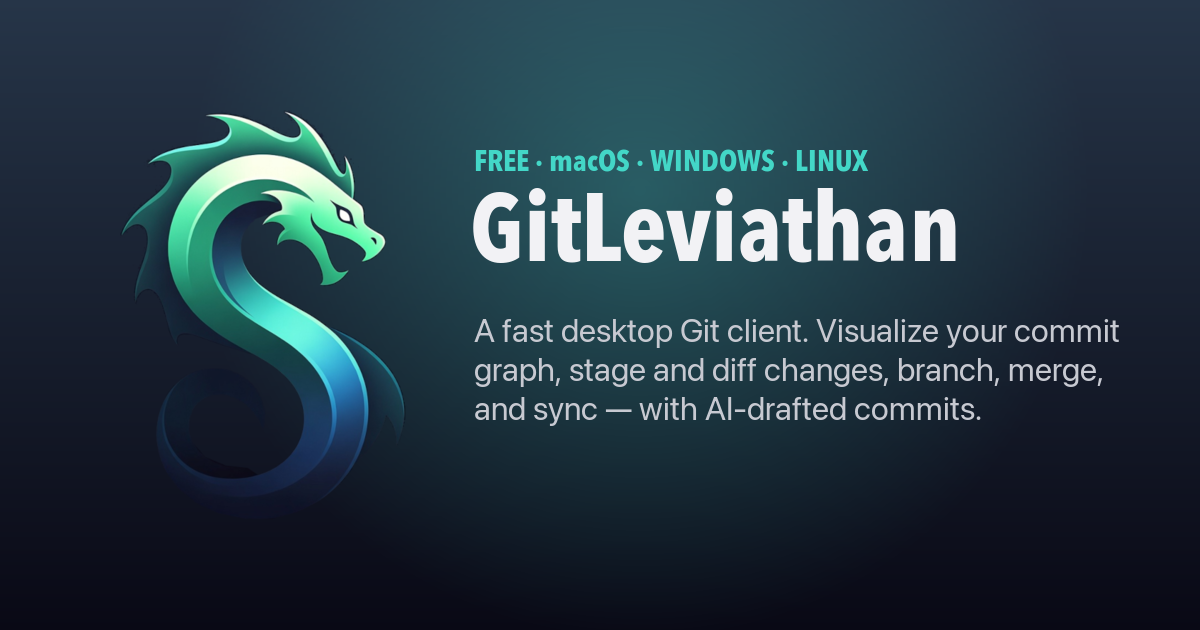
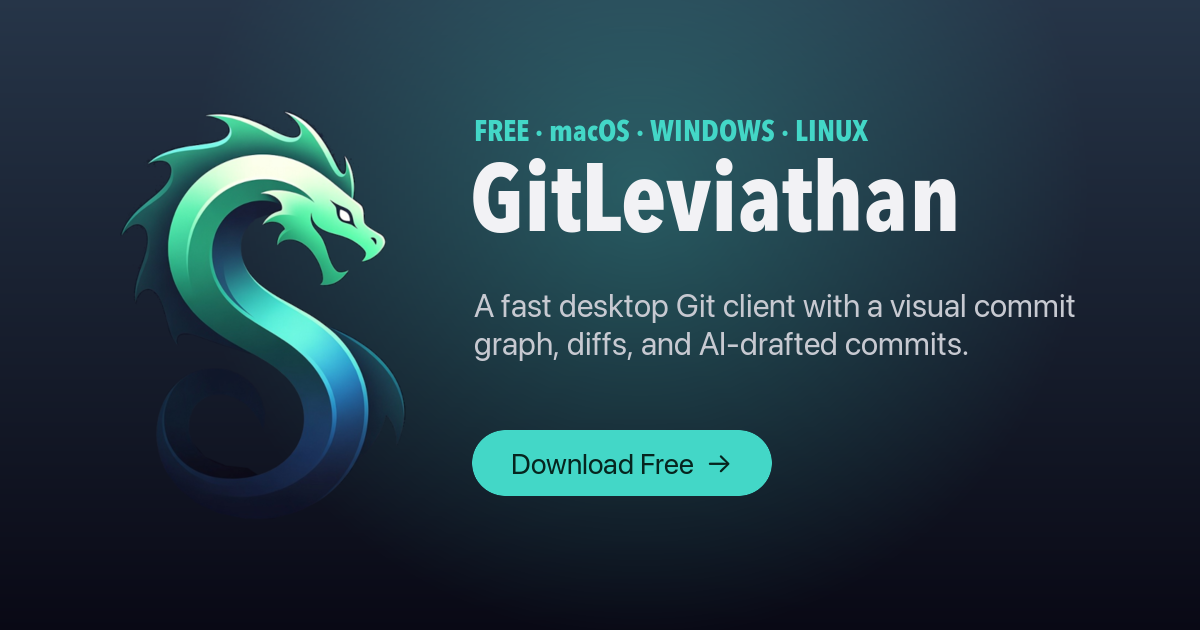
feat: tighten meta titles and descriptions for SEO
Shorten the page title and OG/Twitter/schema descriptions, use
"Mac" in titles, and refresh the OG image.

Changed region(s): [[0.37, 0.4524, 0.9558, 0.8143], [0.37, 0.181, 0.8017, 0.4222]]

diff --git a/index.html b/index.html
@@ -10,10 +10,10 @@
     <!-- End Google Tag Manager -->
     <meta charset="utf-8" />
     <meta name="viewport" content="width=device-width, initial-scale=1" />
-    <title>GitLeviathan — Free Desktop Git GUI for macOS, Windows &amp; Linux</title>
+    <title>GitLeviathan — Desktop Git GUI for Mac, Windows &amp; Linux</title>
     <meta
       name="description"
-      content="GitLeviathan is a fast, free desktop Git client for macOS, Windows, and Linux. Visualize your commit graph, stage and diff changes, branch, merge, and sync — with AI-drafted commit messages. Download for free."
+      content="A fast, free desktop Git client for macOS, Windows, and Linux. Visualize your commit graph, stage diffs, branch, merge, and sync — with AI-drafted commits."
     />
     <link rel="canonical" href="https://gitleviathan.com/" />
     <meta name="robots" content="index, follow" />
@@ -44,11 +44,11 @@
     <meta property="og:url" content="https://gitleviathan.com/" />
     <meta
       property="og:title"
-      content="GitLeviathan — Free Desktop Git GUI for macOS, Windows &amp; Linux"
+      content="GitLeviathan — Desktop Git GUI for Mac, Windows &amp; Linux"
     />
     <meta
       property="og:description"
-      content="A fast, free desktop Git client for macOS, Windows, and Linux. Visualize your commit graph, stage and diff changes, branch, merge, and sync — with AI-drafted commit messages."
+      content="A fast, free desktop Git client for macOS, Windows &amp; Linux — with a visual commit graph, diffs, and AI-drafted commits."
     />
     <meta property="og:image" content="https://gitleviathan.com/assets/og-image.png" />
     <meta property="og:image:width" content="1200" />
@@ -63,11 +63,11 @@
     <meta name="twitter:card" content="summary_large_image" />
     <meta
       name="twitter:title"
-      content="GitLeviathan — Free Desktop Git GUI for macOS, Windows &amp; Linux"
+      content="GitLeviathan — Desktop Git GUI for Mac, Windows &amp; Linux"
     />
     <meta
       name="twitter:description"
-      content="A fast, free desktop Git client for macOS, Windows, and Linux. Visualize your commit graph, stage and diff changes, branch, merge, and sync — with AI-drafted commit messages."
+      content="A fast, free desktop Git client for macOS, Windows &amp; Linux — with a visual commit graph, diffs, and AI-drafted commits."
     />
     <meta name="twitter:image" content="https://gitleviathan.com/assets/og-image.png" />
     <meta
@@ -82,7 +82,7 @@
         "@type": "SoftwareApplication",
         "name": "GitLeviathan",
         "url": "https://gitleviathan.com/",
-        "description": "GitLeviathan is a fast, free desktop Git client for macOS, Windows, and Linux. Visualize your commit graph, stage and diff changes, branch, merge, and sync — with AI-drafted commit messages.",
+        "description": "A fast, free desktop Git client for macOS, Windows, and Linux. Visualize your commit graph, stage diffs, branch, merge, and sync — with AI-drafted commits.",
         "applicationCategory": "DeveloperApplication",
         "operatingSystem": "macOS, Windows, Linux",
         "image": "https://gitleviathan.com/assets/app_icon.png",